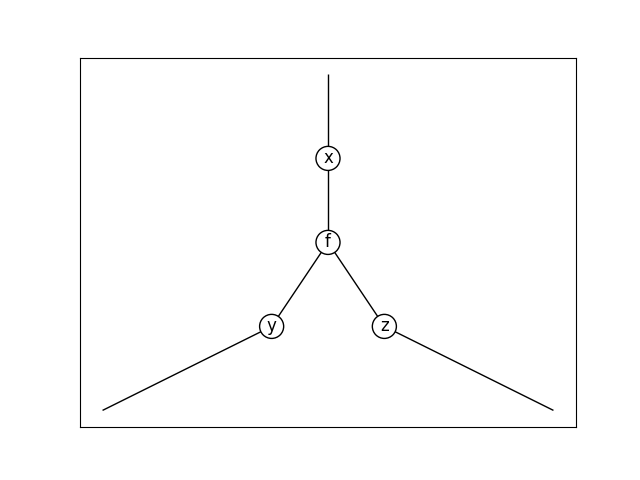
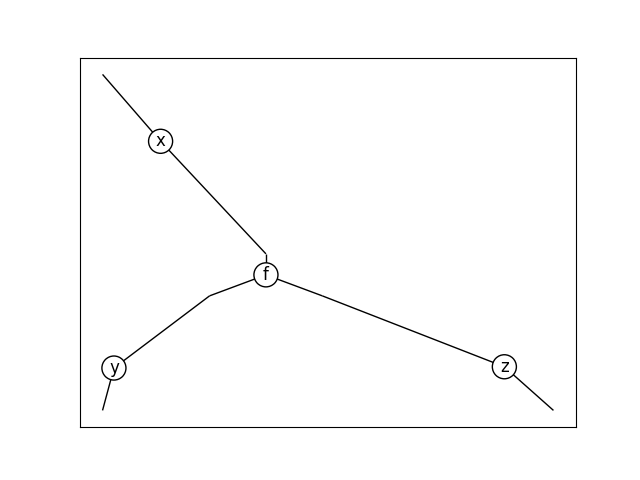
cleanup

diff --git a/discopy/hypergraph.py b/discopy/hypergraph.py
@@ -110,7 +110,7 @@ from networkx import Graph, connected_components, spring_layout, draw_networkx
 
 from discopy import cat, monoidal, rigid, drawing
 from discopy.cat import AxiomError
-from discopy.drawing import Node, COLORS
+from discopy.drawing import Node
 
 
 def pushout(left, right, left_boundary, right_boundary):
@@ -161,6 +161,7 @@ def pushout(left, right, left_boundary, right_boundary):
 
 
 class Ty(rigid.Ty):
+    """ Self-dual types in a hypergraph diagram. """
     @staticmethod
     def upgrade(old):
         return Ty(*old.objects)
@@ -246,7 +247,7 @@ class Diagram(cat.Arrow):
     >>> assert (f @ g).n_spiders == 4
     >>> assert (f @ g).wires == [0, 1, 0, 2, 1, 3, 2, 3]
     """
-    def __init__(self, dom, cod, boxes, wires, spider_types=None, _pos=None):
+    def __init__(self, dom, cod, boxes, wires, spider_types=None):
         super().__init__(dom, cod, boxes, _scan=False)
         if len(wires) != len(dom)\
                 + sum(len(box.dom) + len(box.cod) for box in boxes) + len(cod):
@@ -269,7 +270,7 @@ class Diagram(cat.Arrow):
             if isinstance(spider_types, list) else spider_types
         relabeling += list(sorted(set(spider_types) - set(relabeling)))
         spider_types = [spider_types[spider] for spider in relabeling]
-        self._wires, self._spider_types, self._pos = wires, spider_types, _pos
+        self._wires, self._spider_types = wires, spider_types
 
     @property
     def wires(self):
@@ -337,11 +338,6 @@ class Diagram(cat.Arrow):
     def scalar_spiders(self):
         """ The zero-legged spiders in a hypergraph diagram. """
         return [i for i in range(self.n_spiders) if not self.wires.count(i)]
-
-    @property
-    def pos(self):
-        """ The planar coordinates of inputs, outputs, boxes and spiders. """
-        return self._pos
 
     def then(self, other):
         """
@@ -576,7 +572,7 @@ class Diagram(cat.Arrow):
             return diagram
         dom, cod = diagram.dom, diagram.cod
         boxes, wires = list(diagram.boxes), list(diagram.wires)
-        spider_types = {i: x for i, x in enumerate(diagram.spider_types)}
+        spider_types = dict(enumerate(diagram.spider_types))
         for kinds, box_cls in [
                 (["input", "cod"], rigid.Cup),
                 (["dom", "output"], rigid.Cap)]:
@@ -634,7 +630,7 @@ class Diagram(cat.Arrow):
         spider_types = {i: x for i, x in enumerate(diagram.spider_types)}
         bijection = diagram.bijection
         port = len(diagram.dom)
-        for i, box in enumerate(diagram.boxes):
+        for box in diagram.boxes:
             for j, typ in enumerate(map(Ty, box.dom)):
                 source = port + j
                 spider, target = wires[source], bijection[source]
@@ -676,7 +672,7 @@ class Diagram(cat.Arrow):
             Node("box", depth=depth, box=box if isinstance(box, rigid.Box)
                  else rigid.Box(
                      box.name, box.dom, box.cod,
-                     _dagger=box._dagger, data=box._data))
+                     _dagger=box.is_dagger, data=box.data))
             for depth, box in enumerate(diagram.boxes)])
         graph.add_nodes_from([
             Node("box", depth=len(diagram.boxes) + i,
@@ -684,6 +680,7 @@ class Diagram(cat.Arrow):
             for i, s in enumerate(diagram.scalar_spiders)])
         return drawing.nx2diagram(graph, rigid.Ty, rigid.Id)
 
+    @staticmethod
     def upgrade(old):
         """
         >>> x, y = types("x y")
@@ -696,8 +693,13 @@ class Diagram(cat.Arrow):
             ar=lambda box: Box(box.name, box.dom, box.cod),
             ob_factory=Ty, ar_factory=Diagram)(old)
 
-    def to_nx(self):
-        graph = Graph()
+    def spring_layout(self, seed=None, k=None):
+        """ Computes planar position using a force-directed layout. """
+        if seed is not None:
+            random.seed(seed)
+        height = len(self.boxes) + self.n_spiders
+        width = max(len(self.dom), len(self.cod))
+        graph, pos = Graph(), {}
         graph.add_nodes_from(
             Node("spider", i=i) for i in range(self.n_spiders))
         graph.add_edges_from(
@@ -716,14 +718,6 @@ class Diagram(cat.Arrow):
             (Node("output", i=i), Node("spider", i=j))
             for i, j in enumerate(
                 self.wires[len(self.wires) - len(self.cod):]))
-        return graph
-
-    def spring_layout(self, seed=None, k=None):
-        if seed is not None:
-            random.seed(seed)
-        graph, pos = self.to_nx(), {}
-        height = len(self.boxes) + self.n_spiders
-        width = max(len(self.dom), len(self.cod))
         for i, _ in enumerate(self.dom):
             pos[Node("input", i=i)] = (i, height)
         for i, (dom_wires, cod_wires) in enumerate(self.box_wires):
@@ -742,10 +736,10 @@ class Diagram(cat.Arrow):
             pos[Node("output", i=i)] = (i, 0)
         fixed = [Node("input", i=i) for i, _ in enumerate(self.dom)] + [
             Node("output", i=i) for i, _ in enumerate(self.cod)] or None
-        self._pos = spring_layout(graph, pos=pos, fixed=fixed, k=k, seed=seed)
-        return self._pos
+        pos = spring_layout(graph, pos=pos, fixed=fixed, k=k, seed=seed)
+        return graph, pos
 
-    def draw(self, seed=None, k=.25, figsize=None, path=None):
+    def draw(self, seed=None, k=.25, path=None):
         """
         Draw a hypegraph diagram.
 
@@ -765,14 +759,11 @@ class Diagram(cat.Arrow):
         .. image:: ../_static/imgs/hypergraph/diagram.png
             :align: center
         """
-        if self.pos is None:
-            self.spring_layout(seed=seed, k=k)
-        graph, pos = self.to_nx(), self.pos
+        graph, pos = self.spring_layout(seed=seed, k=k)
         for i, (dom_wires, cod_wires) in enumerate(self.box_wires):
             box_node = Node("box", i=i)
             for kind, wires in [("dom", dom_wires), ("cod", cod_wires)]:
                 for j, spider in enumerate(wires):
-                    spider_node = Node("spider", i=spider)
                     port_node = Node(kind, i=i, j=j)
                     x, y = pos[box_node]
                     if not isinstance(self.boxes[i], rigid.Spider):
@@ -802,22 +793,10 @@ class Box(cat.Box, Diagram):
     """ Box in a :class:`discopy.hypergraph.Diagram`. """
     def __init__(self, name, dom, cod, **params):
         cat.Box.__init__(self, name, dom, cod, **params)
-        boxes, spider_types = [self], list(range(len(dom @ cod)))
+        boxes, spider_types = [self], list(map(Ty, dom @ cod))
         wires = 2 * list(range(len(dom)))\
             + 2 * list(range(len(dom), len(dom @ cod)))
-        middle = max(len(dom[:-1]), len(cod[:-1])) / 2
-        pos = {Node("input", i=i): (middle - len(dom[:-1]) / 2 + i, 1)
-               for i, _ in enumerate(dom)}
-        pos.update({Node("spider", i=i):
-                    (middle - .25 * (len(dom[:-1]) / 2 - i), .75)
-                    for i, _ in enumerate(dom)})
-        pos[Node("box", i=0)] = (middle, .5)
-        pos.update({Node("spider", i=i + len(dom)):
-                    (middle - .25 * (len(cod[:-1]) / 2 - i), .25)
-                    for i, _ in enumerate(cod)})
-        pos.update({Node("output", i=i): (middle - len(cod[:-1]) / 2 + i, 0)
-                    for i, _ in enumerate(cod)})
-        Diagram.__init__(self, dom, cod, boxes, wires, _pos=pos)
+        Diagram.__init__(self, dom, cod, boxes, wires, spider_types)
 
     def __eq__(self, other):
         if isinstance(other, Box):

diff --git a/discopy/cat.py b/discopy/cat.py
@@ -21,7 +21,7 @@ We can create dagger functors from the free category to itself:
 >>> assert F(arrow) == (h >> f >> g)[::-1]
 """
 
-from functools import total_ordering, reduce
+from functools import total_ordering
 from collections.abc import Mapping, Iterable
 
 from discopy import messages
